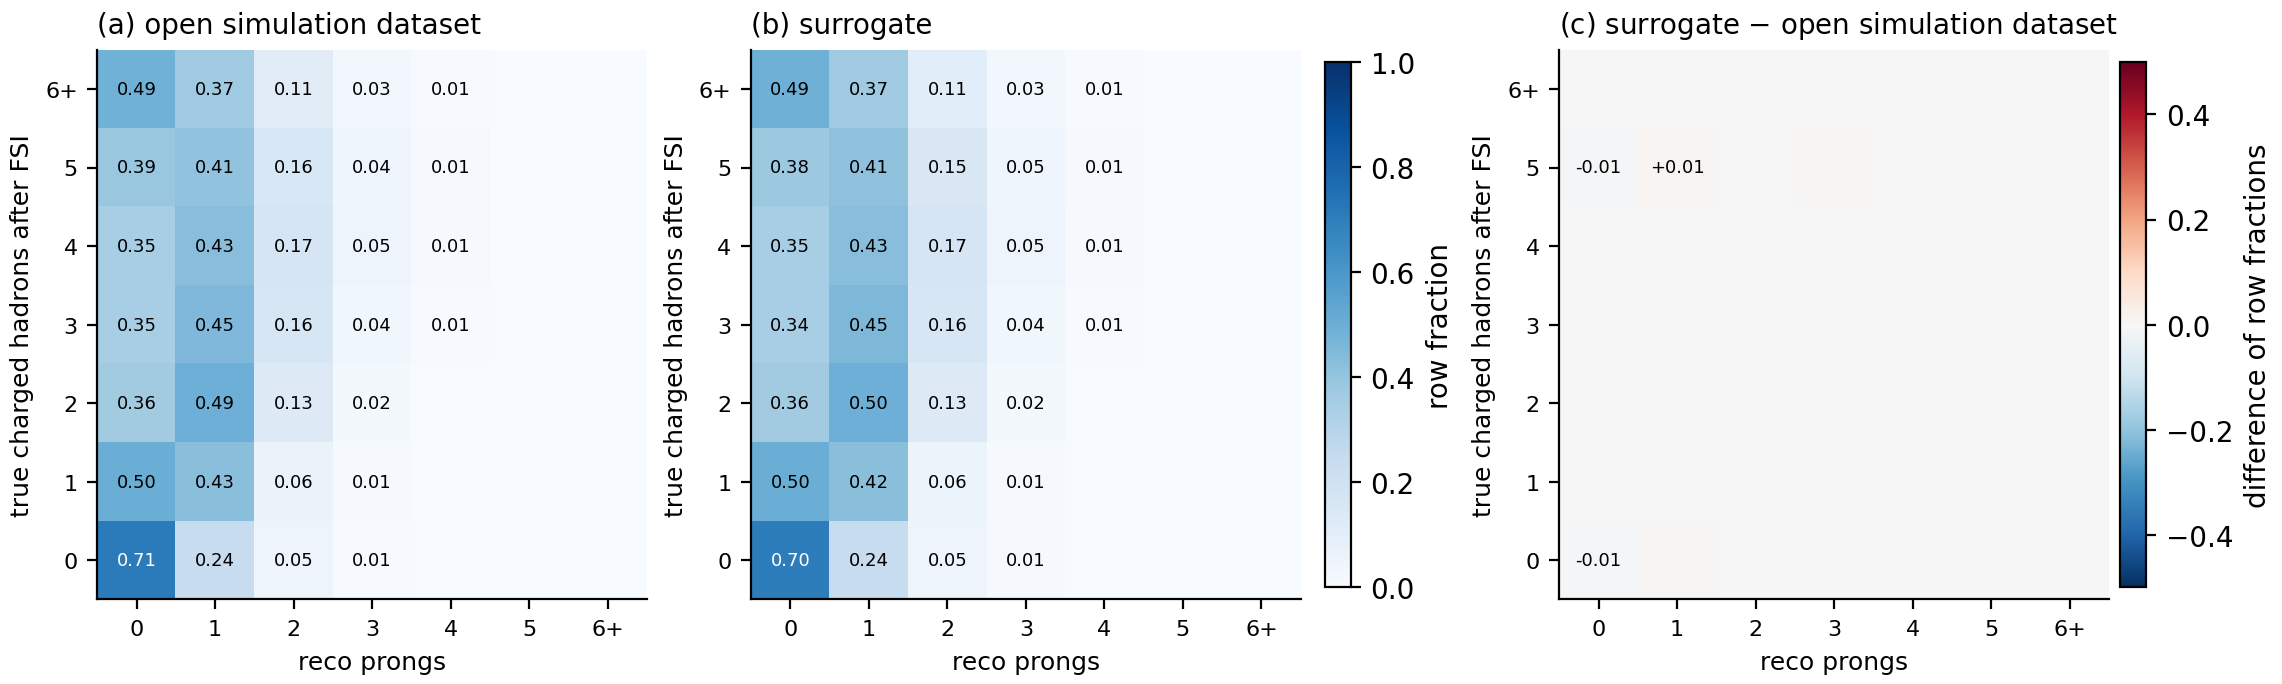
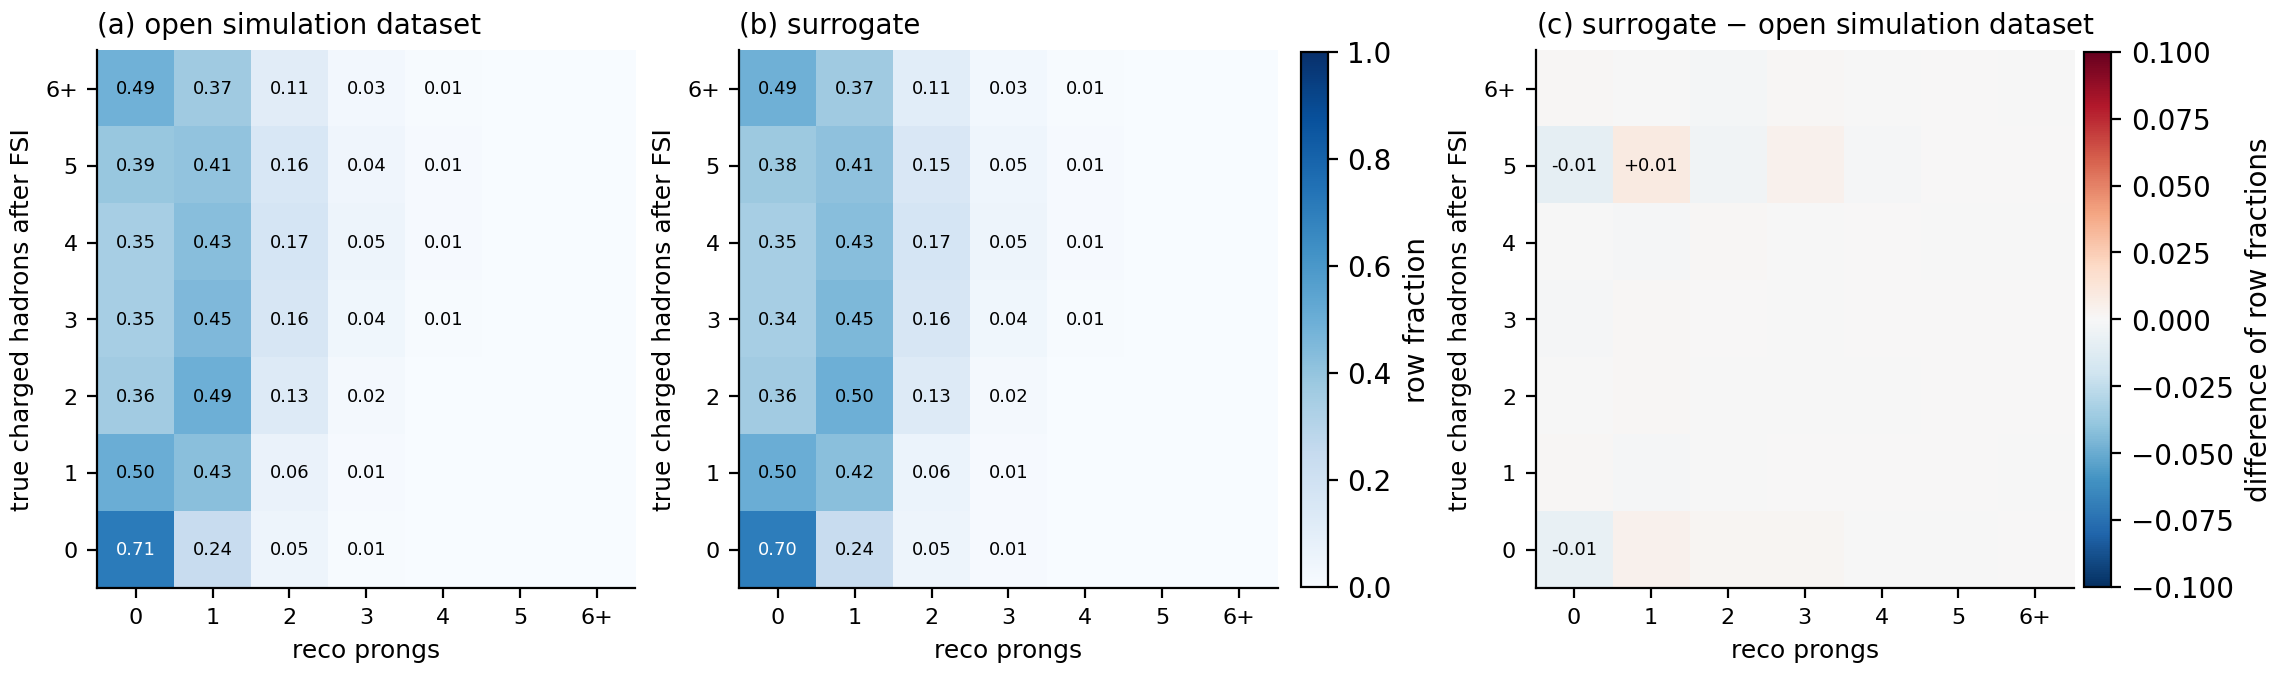
paper_fig_confusion: difference scale ±0.1
Claude-Session: https://claude.ai/code/session_01WonotUddxf69Fsc1KRUvp3

diff --git a/scripts/paper_fig_confusion.py b/scripts/paper_fig_confusion.py
@@ -22,7 +22,7 @@ for ax, (C, title) in zip(axs[:2], ((A, "(a) open simulation dataset"), (B, "(b)
             if C[i, j] >= 0.005: ax.text(j, i, f"{C[i,j]:.2f}", ha="center", va="center", fontsize=6.5, color="white" if C[i, j] > 0.6 else "black")
     frame(ax, title)
 fig.colorbar(im, ax=axs[:2].tolist(), shrink=0.85, pad=0.02, label="row fraction")
-imd = axs[2].imshow(D, vmin=-0.5, vmax=0.5, cmap="RdBu_r", origin="lower")
+imd = axs[2].imshow(D, vmin=-0.1, vmax=0.1, cmap="RdBu_r", origin="lower")
 for i in range(D.shape[0]):
     for j in range(D.shape[1]):
         if abs(D[i, j]) >= 0.005: axs[2].text(j, i, f"{D[i,j]:+.2f}", ha="center", va="center", fontsize=6.5, color="black")
